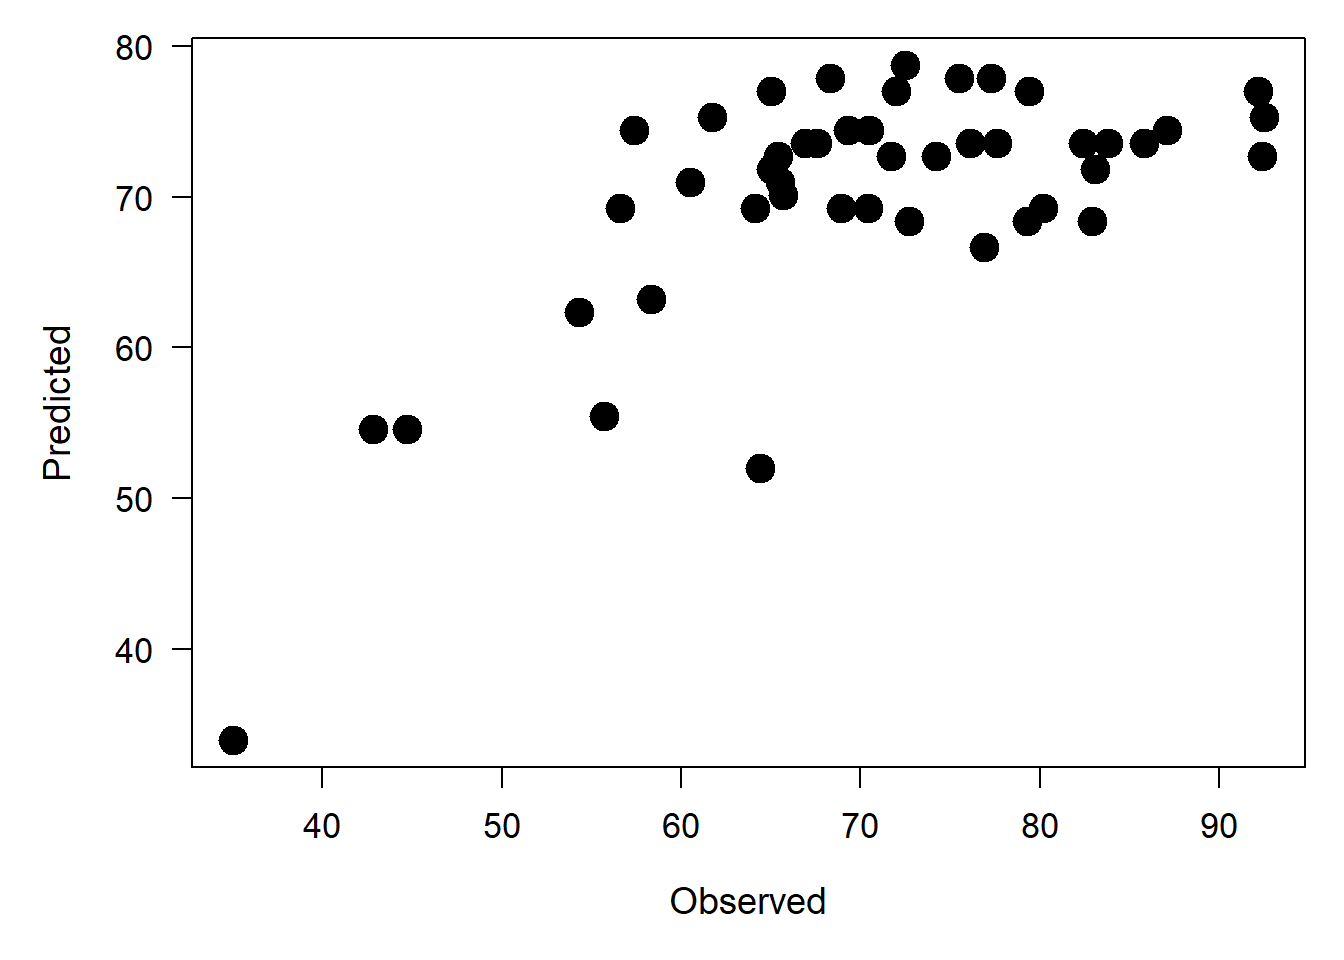
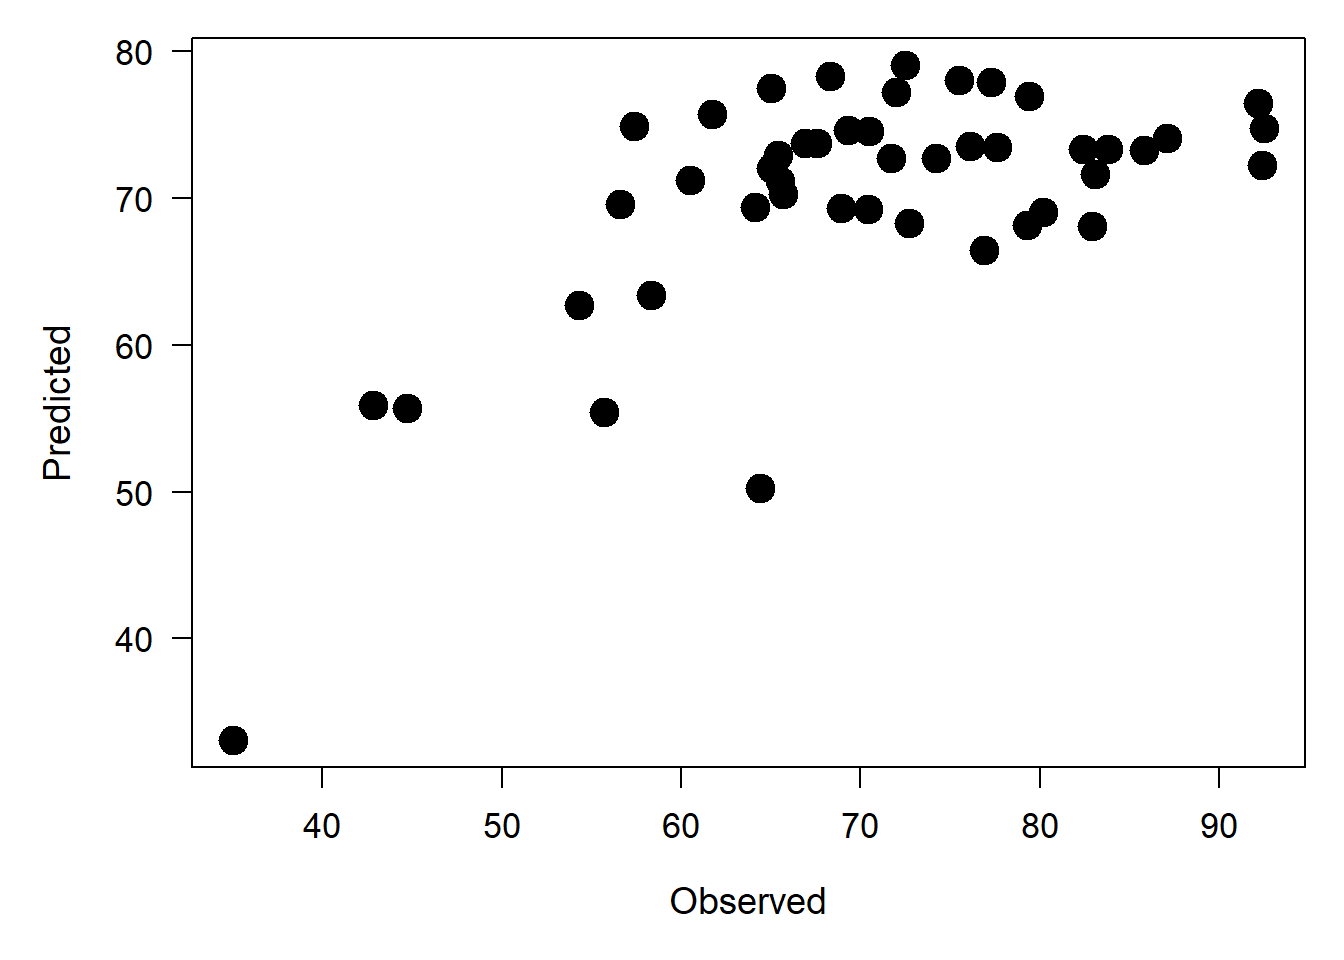
update model selection lecture mod

diff --git a/stich/classes/BIOL678/06_modelSelection.html b/stich/classes/BIOL678/06_modelSelection.html
@@ -678,7 +678,7 @@ Unconditional SE<span class="op">:</span><span class="st"> </span><span class="f
 
 <span class="co"># Fit the model that tests the effects of Education</span>
 <span class="co"># on the Fertility</span>
-  mod.Ed =<span class="st"> </span><span class="kw">lm</span>(Fertility<span class="op">~</span>Education, <span class="dt">data=</span>swiss)
+  mod.Ed =<span class="st"> </span><span class="kw">lm</span>(Fertility<span class="op">~</span>Education, <span class="dt">data=</span>data.train)
 
 <span class="co"># Predict Fertility from the fitted model and store</span>
   ed.pred[i] =<span class="st"> </span><span class="kw">predict</span>(mod.Ed, data.pred)
@@ -707,29 +707,29 @@ Call<span class="op">:</span>
 <span class="kw">lm</span>(<span class="dt">formula =</span> ed.obs <span class="op">~</span><span class="st"> </span>ed.pred)
 
 Residuals<span class="op">:</span>
-<span class="st">    </span>Min      1Q  Median      3Q     Max 
-<span class="op">-</span><span class="fl">17.036</span>  <span class="op">-</span><span class="fl">6.711</span>  <span class="op">-</span><span class="fl">1.011</span>   <span class="fl">9.526</span>  <span class="fl">19.689</span> 
+<span class="st">     </span>Min       1Q   Median       3Q      Max 
+<span class="op">-</span><span class="fl">17.2315</span>  <span class="op">-</span><span class="fl">6.7132</span>  <span class="op">-</span><span class="fl">0.8833</span>   <span class="fl">9.7559</span>  <span class="fl">20.2830</span> 
 
 Coefficients<span class="op">:</span>
-<span class="st">              </span>Estimate Std. Error t value <span class="kw">Pr</span>(<span class="op">&gt;</span><span class="er">|</span>t<span class="op">|</span>)    
-(Intercept) <span class="op">-</span><span class="fl">1.658e-14</span>  <span class="fl">1.186e+01</span>   <span class="fl">0.000</span>        <span class="dv">1</span>    
-ed.pred      <span class="fl">1.000e+00</span>  <span class="fl">1.680e-01</span>   <span class="fl">5.954</span> <span class="fl">3.66e-07</span> <span class="op">**</span><span class="er">*</span>
+<span class="st">            </span>Estimate Std. Error t value <span class="kw">Pr</span>(<span class="op">&gt;</span><span class="er">|</span>t<span class="op">|</span>)    
+(Intercept)   <span class="fl">4.0940</span>    <span class="fl">12.1637</span>   <span class="fl">0.337</span>    <span class="fl">0.738</span>    
+ed.pred       <span class="fl">0.9416</span>     <span class="fl">0.1722</span>   <span class="fl">5.468</span> <span class="fl">1.91e-06</span> <span class="op">**</span><span class="er">*</span>
 <span class="op">---</span>
 Signif. codes<span class="op">:</span><span class="st">  </span><span class="dv">0</span> <span class="st">&#39;***&#39;</span> <span class="fl">0.001</span> <span class="st">&#39;**&#39;</span> <span class="fl">0.01</span> <span class="st">&#39;*&#39;</span> <span class="fl">0.05</span> <span class="st">&#39;.&#39;</span> <span class="fl">0.1</span> <span class="st">&#39; &#39;</span> <span class="dv">1</span>
 
-Residual standard error<span class="op">:</span><span class="st"> </span><span class="fl">9.446</span> on <span class="dv">45</span> degrees of freedom
-Multiple R<span class="op">-</span>squared<span class="op">:</span><span class="st">  </span><span class="fl">0.4406</span>,    Adjusted R<span class="op">-</span>squared<span class="op">:</span><span class="st">  </span><span class="fl">0.4282</span> 
-F<span class="op">-</span>statistic<span class="op">:</span><span class="st"> </span><span class="fl">35.45</span> on <span class="dv">1</span> and <span class="dv">45</span> DF,  p<span class="op">-</span>value<span class="op">:</span><span class="st"> </span><span class="fl">3.659e-07</span>
+Residual standard error<span class="op">:</span><span class="st"> </span><span class="fl">9.79</span> on <span class="dv">45</span> degrees of freedom
+Multiple R<span class="op">-</span>squared<span class="op">:</span><span class="st">  </span><span class="fl">0.3992</span>,    Adjusted R<span class="op">-</span>squared<span class="op">:</span><span class="st">  </span><span class="fl">0.3858</span> 
+F<span class="op">-</span>statistic<span class="op">:</span><span class="st">  </span><span class="fl">29.9</span> on <span class="dv">1</span> and <span class="dv">45</span> DF,  p<span class="op">-</span>value<span class="op">:</span><span class="st"> </span><span class="fl">1.911e-06</span>
 <span class="co"># Extract the R-squared for observed vs predicted</span>
   <span class="kw">summary</span>(pred.line)<span class="op">$</span>r.squared
-[<span class="dv">1</span>] <span class="fl">0.4406156</span>
+[<span class="dv">1</span>] <span class="fl">0.3991715</span>
           
 <span class="co"># Plot predictive line</span>
 <span class="co"># Get coefficients</span>
   <span class="kw">summary</span>(pred.line)<span class="op">$</span>coefficients
-                 Estimate Std. Error       t value     <span class="kw">Pr</span>(<span class="op">&gt;</span><span class="er">|</span>t<span class="op">|</span>)
-(Intercept) <span class="op">-</span><span class="fl">1.658293e-14</span> <span class="fl">11.8617938</span> <span class="op">-</span><span class="fl">1.398012e-15</span> <span class="fl">1.000000e+00</span>
-ed.pred      <span class="fl">1.000000e+00</span>  <span class="fl">0.1679651</span>  <span class="fl">5.953619e+00</span> <span class="fl">3.658617e-07</span>
+             Estimate Std. Error   t value     <span class="kw">Pr</span>(<span class="op">&gt;</span><span class="er">|</span>t<span class="op">|</span>)
+(Intercept) <span class="fl">4.0939788</span> <span class="fl">12.1637145</span> <span class="fl">0.3365731</span> <span class="fl">7.380034e-01</span>
+ed.pred     <span class="fl">0.9416226</span>  <span class="fl">0.1722131</span> <span class="fl">5.4677763</span> <span class="fl">1.910958e-06</span>
 <span class="co"># Use sequence of new data</span>
   pred.pts =<span class="st"> </span><span class="kw">data.frame</span>(<span class="kw">seq</span>(<span class="kw">min</span>(ed.obs), <span class="kw">max</span>(ed.obs), <span class="dv">1</span>))
   <span class="kw">names</span>(pred.pts) =<span class="st"> &#39;ed.pred&#39;</span>
@@ -756,8 +756,8 @@ ed.pred      <span class="fl">1.000000e+00</span>  <span class="fl">0.1679651</s
 <span class="co"># hold our training and predicting data</span>
   p.Rsquare =<span class="st"> </span><span class="kw">c</span>()
 
-<span class="co"># We will randomly sample our data 10,000 times</span>
-  <span class="cf">for</span>(i <span class="cf">in</span> <span class="dv">1</span><span class="op">:</span><span class="fl">1e4</span>){
+<span class="co"># We will randomly sample our data 1,000 times</span>
+  <span class="cf">for</span>(i <span class="cf">in</span> <span class="dv">1</span><span class="op">:</span><span class="dv">1000</span>){
 
 <span class="co"># Sample the data, taking only 22 </span>
 <span class="co"># data points (about half the data).</span>
@@ -770,7 +770,7 @@ ed.pred      <span class="fl">1.000000e+00</span>  <span class="fl">0.1679651</s
 
 <span class="co"># Fit the model that tests the </span>
 <span class="co"># effects of education on the fertility index</span>
-  mod.Ed =<span class="st"> </span><span class="kw">lm</span>(Fertility<span class="op">~</span>Education, <span class="dt">data=</span>swiss)
+  mod.Ed =<span class="st"> </span><span class="kw">lm</span>(Fertility<span class="op">~</span>Education, <span class="dt">data=</span>data.train)
 
 <span class="co"># Predict fertility from the fitted</span>
 <span class="co"># model and store the result</span>
@@ -783,10 +783,10 @@ ed.pred      <span class="fl">1.000000e+00</span>  <span class="fl">0.1679651</s
 }</code></pre></div>
 <p>We can now calculate the median predicted R-squared and the 95% CI on this test statistic</p>
 <div class="sourceCode"><pre class="sourceCode r"><code class="sourceCode r">  <span class="kw">median</span>(p.Rsquare)
-[<span class="dv">1</span>] <span class="fl">0.4542436</span>
+[<span class="dv">1</span>] <span class="fl">0.4618526</span>
   <span class="kw">quantile</span>(p.Rsquare, <span class="dt">probs =</span> <span class="kw">c</span>(<span class="fl">0.025</span>, <span class="fl">0.975</span>))
      <span class="fl">2.5</span><span class="op">%     97.5%</span><span class="st"> </span>
-<span class="fl">0.1080989</span> <span class="fl">0.6225763</span> </code></pre></div>
+<span class="fl">0.1012224</span> <span class="fl">0.6266102</span> </code></pre></div>
 <p>We can look at the distribution of our r-squared values for regressions that measure the fit between our predictions and our observations</p>
 <div class="sourceCode"><pre class="sourceCode r"><code class="sourceCode r"><span class="co"># Plot the histogram</span>
   <span class="kw">hist</span>(p.Rsquare, <span class="dt">breaks=</span><span class="dv">100</span>, <span class="dt">yaxt=</span><span class="st">&#39;n&#39;</span>, <span class="dt">xaxt=</span><span class="st">&#39;n&#39;</span>,
